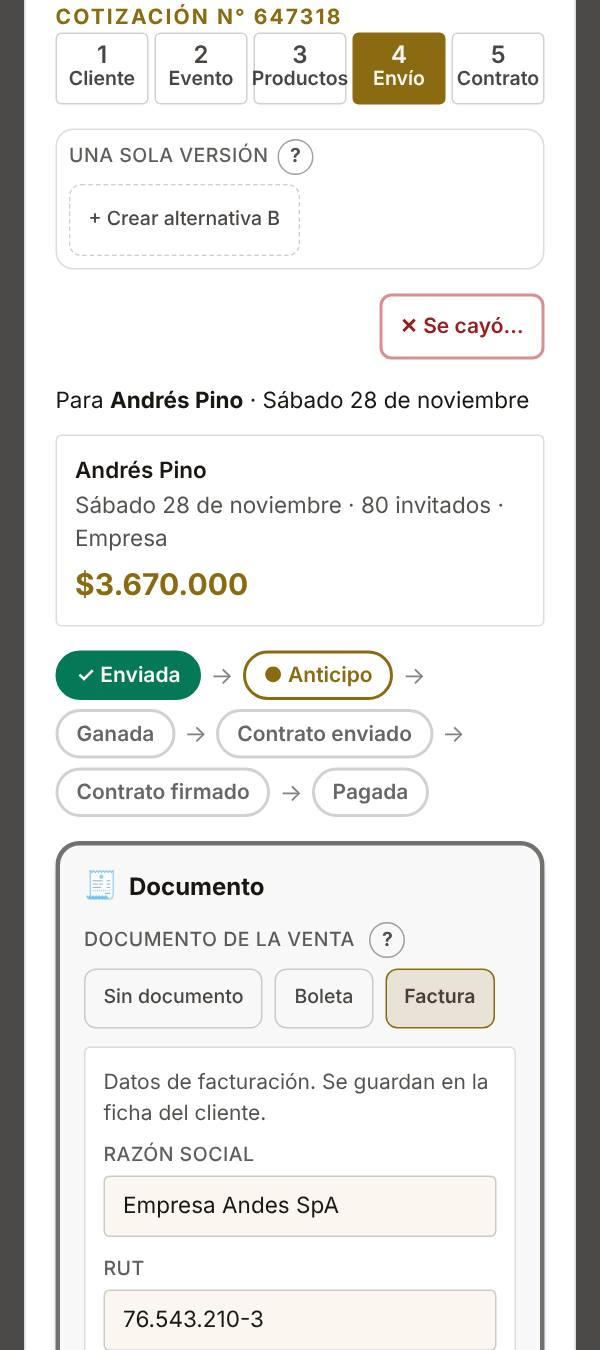
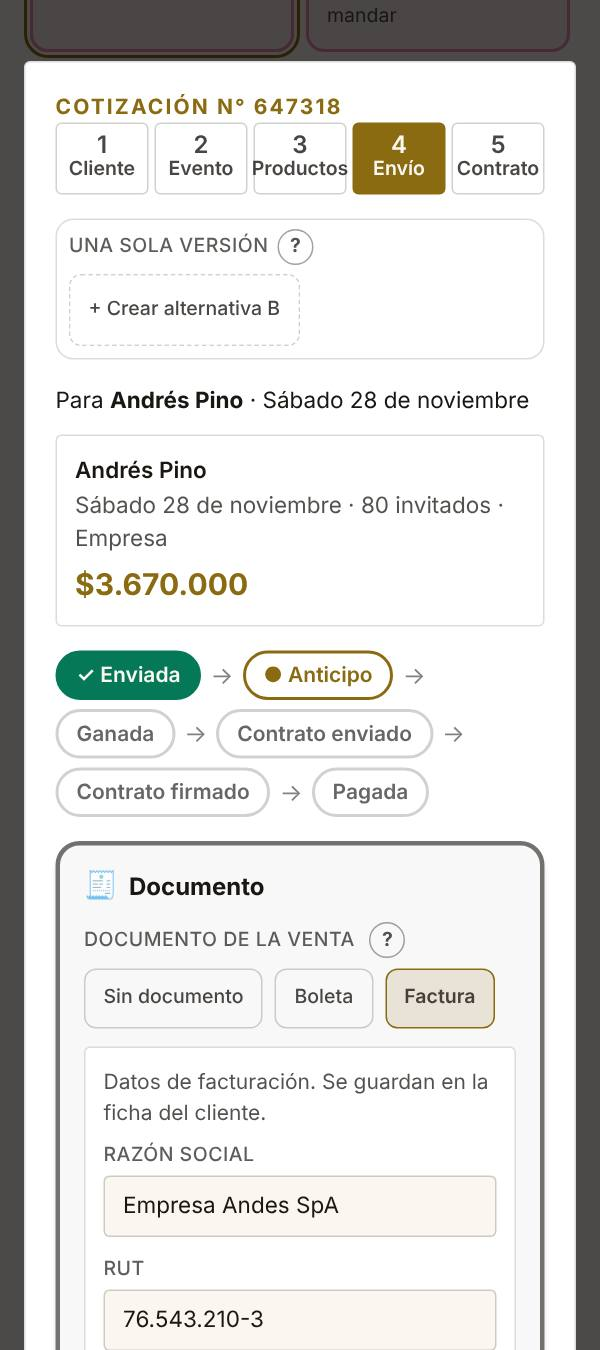
Se cayó: al lado de Ir al paso, y dentro de la tarjeta de la lista
Lo corrigió el cliente con las capturas: arriba a la derecha quedaba
escondido, y afuera de la fila dejaba superficie libre.

- En la ventana de cotizar va en el pie de cada paso, al lado del dorado y
  del mismo alto (antesDeSeguir de PieDePaso). En el celular comparte la fila
  con volver y el dorado baja a todo el ancho.
- En la lista va dentro de la tarjeta, antes de los valores; en el celular,
  al final de la línea del vendedor. La fila pasa a ser una caja con un botón
  que la cubre, porque un botón no va dentro de otro.
- Las pruebas abren la cotización por ese botón; fotos de la ayuda rehechas.

Claude-Session: https://claude.ai/code/session_01SbCpLXRLiAYNdagAaPDDb9

diff --git a/panel/src/components/CotizacionDialogo.tsx b/panel/src/components/CotizacionDialogo.tsx
@@ -1275,6 +1275,26 @@ export default function CotizacionDialogo({
     </>
   );
 
+  /**
+   * **✕ Se cayó…, en el pie de cada paso** (2026-11-22, lo pidió el cliente:
+   * *"el vendedor responsable de su venta debería tener en cada página del
+   * pop-up de cotizaciones el botón se cayó… da igual en qué fase está"*, y
+   * después, al verlo arriba a la derecha: *"prefiero que se cayó esté al
+   * lado abajo de donde sale ir al próximo paso. Como botón clave"*). Va al
+   * lado del dorado, del mismo alto, con borde rojo. Abre la ventanita que
+   * pide el motivo y confirma (`SeCayo`). Solo en una cotización en carrera:
+   * una ganada se cancela, con su propio botón (*Cancelar evento*). Lo ve
+   * quien puede tocarla: el vendedor la suya; pagos, la gerencia y el
+   * administrador, todas.
+   */
+  const botonSeCayo = p && puedeEditar && !cancelada && enCarrera({ estado, idReserva: p.idReserva }) ? (
+    <button type="button" disabled={guardando} onClick={() => setCayendo(true)}
+      className="boton min-h-[52px] !border-2 !border-rojo-fuerte/60 !px-4 !text-[15px] !font-bold text-rojo-texto
+                 hover:!border-rojo-fuerte hover:!text-rojo-texto lg:min-h-[44px]">
+      ✕ Se cayó…
+    </button>
+  ) : null;
+
   /** Lo mismo, del paso 5: corregir la ganada y cancelar el evento. */
   const secundariosContrato = (
     <>
@@ -1483,25 +1503,6 @@ export default function CotizacionDialogo({
                 onClick={() => void elegirAlternativa(p.id, true)}>Volver a ofrecer todas</button>
             </p>
           )}
-        </div>
-      )}
-
-      {/* **Se cayó…, en todos los pasos** (2026-11-22, lo pidió el cliente:
-          *"el vendedor responsable de su venta debería tener en cada página
-          del pop-up de cotizaciones el botón se cayó… da igual en qué fase
-          está"*). Va en la fila de los pasos, que está en los cinco. Abre la
-          ventanita que pide el motivo y confirma (`SeCayo`). **Una ganada se
-          cancela**: ahí el mismo botón abre *Cancelar el evento*, que libera
-          el cupo y calcula la devolución. Lo ve quien puede tocarla: el
-          vendedor la suya; pagos, la gerencia y el administrador, todas. */}
-      {p && puedeEditar && !cancelada && (ganada || enCarrera({ estado, idReserva: p.idReserva })) && (
-        <div className="mb-4 flex justify-end lg:mb-0 lg:shrink-0">
-          <button type="button" disabled={guardando}
-            onClick={() => (ganada ? setCancelando(true) : setCayendo(true))}
-            className="boton min-h-[44px] !border-2 !border-rojo-fuerte/50 !text-[14px] !font-semibold text-rojo-texto
-                       hover:!border-rojo-fuerte hover:!text-rojo-texto">
-            ✕ Se cayó…
-          </button>
         </div>
       )}
 
@@ -2914,6 +2915,7 @@ export default function CotizacionDialogo({
                 {!cancelada && !autoActivo && <BotonGuardar sucio={sucio} guardando={guardando} onClick={() => pedirGuardar()} />}
                 {secundarios}
               </> : null}
+          antesDeSeguir={botonSeCayo}
           onVolver={() => void irA(paso - 1)} onSeguir={() => void irA(paso + 1)} />
       )}
       {paso === 5 && (
@@ -2925,6 +2927,7 @@ export default function CotizacionDialogo({
             {!cancelada && !autoActivo && <BotonGuardar sucio={sucio} guardando={guardando} onClick={() => pedirGuardar()} />}
             {secundariosContrato}
           </div>
+          {botonSeCayo && <><span className="flex-1" />{botonSeCayo}</>}
         </div>
       )}
 
@@ -3133,10 +3136,16 @@ export default function CotizacionDialogo({
  *   pasar de Evento a Productos guarda (`irA()`), y eso se dice antes.
  * - **A la izquierda, volver**, delineado.
  */
-function PieDePaso({ paso, guardando, puede, porQueNo, aviso, medio, onVolver, onSeguir }: {
+function PieDePaso({ paso, guardando, puede, porQueNo, aviso, medio, antesDeSeguir, onVolver, onSeguir }: {
   paso: number; guardando: boolean; puede: boolean; porQueNo: string; aviso: string;
   /** Lo que va en el pie **solo en el computador**, entre *volver* y *seguir*. */
   medio?: React.ReactNode;
+  /**
+   * Un botón clave al lado del dorado, en el computador y en el celular:
+   * *✕ Se cayó…* (2026-11-22). En el celular comparte la fila con *volver*
+   * y el dorado baja a todo el ancho, para no dejar un hueco.
+   */
+  antesDeSeguir?: React.ReactNode;
   onVolver: () => void; onSeguir: () => void;
 }) {
   return (
@@ -3155,8 +3164,10 @@ function PieDePaso({ paso, guardando, puede, porQueNo, aviso, medio, onVolver, o
             {puede ? aviso : porQueNo}
           </span>
         )}
+        {antesDeSeguir}
         <button type="button" disabled={guardando || !puede} onClick={onSeguir}
-          className="boton boton-relleno min-h-[52px] px-5 text-[16px] disabled:opacity-50 lg:min-h-[44px]">
+          className={`boton boton-relleno min-h-[52px] px-5 text-[16px] disabled:opacity-50 lg:min-h-[44px] ${
+            antesDeSeguir ? 'max-lg:basis-full' : ''}`}>
           {guardando ? 'Guardando…' : <>Ir al paso {paso + 1}: {PASOS[paso]} →</>}
         </button>
       </div>

diff --git a/panel/src/components/CotizacionesVista.tsx b/panel/src/components/CotizacionesVista.tsx
@@ -322,18 +322,35 @@ export default function CotizacionesVista() {
    */
   /**
    * **Se cayó…, también en la lista** (2026-11-22, lo pidió el cliente:
-   * *"hasta en el enlistado… ahí cabe también un botón se cayó"*). Va al lado
-   * de la fila —no adentro: la fila entera ya es un botón que abre la
-   * cotización— y solo en las que siguen en carrera y esta cuenta puede
+   * *"hasta en el enlistado… ahí cabe también un botón se cayó"*, y al verlo
+   * afuera de la fila: *"deja los valores al borde derecho e integra el botón
+   * se cayó en el mismo panel antes de los valores… dentro del panel como un
+   * botón presente"*). Solo en las que siguen en carrera y esta cuenta puede
    * tocar. Abre la misma ventanita que en la cotización (`SeCayo`).
+   *
+   * **La fila ya no es un botón entero**, porque un botón no puede ir dentro
+   * de otro: es una caja con un botón invisible que la cubre (`abrir`, el que
+   * abre la cotización) y *Se cayó…* encima, con `z-10`. En el computador va
+   * en la línea del nombre, antes de los valores; en el celular, al final de
+   * la línea del vendedor, a la derecha, para no sumar un renglón.
    */
   const puedeCaerse = (p: Presupuesto) => !soloMira && enCarrera(p)
     && puedeTocarPresupuesto(datos.rol as Rol, datos.usuario, p.creadoPor);
-  const fila = (p: Presupuesto, conFecha = true, detalle?: ReactNode) => (
-    <li key={p.id} className="flex items-stretch gap-2">
-      <button type="button" onClick={() => setAbierta({ p })}
-        className="tecla flex min-w-0 flex-1 flex-wrap items-center gap-x-3 gap-y-1 rounded border
-                   border-hueso/15 bg-panel px-3 py-2.5 text-left min-h-[52px] hover:border-oro/60">
+  const fila = (p: Presupuesto, conFecha = true, detalle?: ReactNode) => {
+    const caerse = puedeCaerse(p);
+    const botonCaer = (donde: string) => (
+      <button type="button" onClick={() => setCayendo(p)} aria-label={`Se cayó la cotización de ${p.cliente || 'sin cliente'}`}
+        className={`boton relative z-10 shrink-0 !min-h-[40px] !border-2 !border-rojo-fuerte/50 !px-2.5 !text-[14px]
+                    !font-semibold text-rojo-texto hover:!border-rojo-fuerte hover:!text-rojo-texto ${donde}`}>
+        ✕ Se cayó…
+      </button>
+    );
+    return (
+      <li key={p.id} className="relative flex min-h-[52px] flex-wrap items-center gap-x-3 gap-y-1 rounded border
+                                border-hueso/15 bg-panel px-3 py-2.5 hover:border-oro/60
+                                [&:has(>.abrir:active)]:translate-y-px">
+        <button type="button" onClick={() => setAbierta({ p })} aria-label={`Abrir la cotización de ${p.cliente || 'sin cliente'}`}
+          className="abrir absolute inset-0 rounded focus-visible:outline focus-visible:outline-2 focus-visible:outline-oro" />
         <span className="text-[16px] font-semibold">{p.cliente || 'Sin cliente'}</span>
         <PastillaEstado estado={estadoDe(p)} />
         {conFecha && (
@@ -345,6 +362,7 @@ export default function CotizacionesVista() {
           </span>
         )}
         <span className="flex-1" />
+        {caerse && botonCaer('hidden lg:inline-flex')}
         <span className="text-[14px] text-hueso/70">
           {gente(p) > 0 && <>{gente(p)} pers. · </>}
           <strong className="text-hueso">{enPesos(total(p))}</strong>
@@ -355,19 +373,15 @@ export default function CotizacionesVista() {
           </span>
         )}
         <span className="text-[13px] text-hueso/55">N° {folioDe({ id: grupoDe(p) })}</span>
-        {detalle && (
-          <span className="flex basis-full flex-wrap gap-x-3 gap-y-0.5 text-[13px] text-hueso/70">{detalle}</span>
+        {(detalle || caerse) && (
+          <span className="flex basis-full items-center gap-x-3 gap-y-0.5 text-[13px] text-hueso/70">
+            <span className="flex min-w-0 flex-1 flex-wrap gap-x-3 gap-y-0.5">{detalle}</span>
+            {caerse && botonCaer('lg:hidden')}
+          </span>
         )}
-      </button>
-      {puedeCaerse(p) && (
-        <button type="button" onClick={() => setCayendo(p)} aria-label={`Se cayó la cotización de ${p.cliente || 'sin cliente'}`}
-          className="boton shrink-0 self-center !min-h-[44px] !border-2 !border-rojo-fuerte/50 !px-2.5 !text-[14px]
-                     !font-semibold text-rojo-texto hover:!border-rojo-fuerte hover:!text-rojo-texto">
-          ✕ Se cayó…
-        </button>
-      )}
-    </li>
-  );
+      </li>
+    );
+  };
 
   // ---- El calendario: semanas desde la en curso, con los días que importan.
   /** Lo que esta cuenta ve en la tarjeta de un día: lo mandado, una ganada, o lo suyo sin mandar. */

diff --git a/panel/CLAUDE.md b/panel/CLAUDE.md
@@ -221,12 +221,28 @@ fácil… para que desaparezca de la lista"*. Y después: *"esta función tiene 
 estar para el encargado de pagos y la gerencia también. Siempre comprobando
 que es correcto"*.
 
-- **Dónde está**:
-  - en la ventana de cotizar, en la fila de los pasos, así que se ve en los
-    cinco;
-  - al lado de cada fila de la lista, fuera de la fila, que ya es un botón;
+- **Dónde está** (la primera versión lo ponía arriba a la derecha en la
+  ventana y afuera de la fila en la lista; el cliente lo corrigió con las
+  capturas: *"prefiero que se cayó esté al lado abajo de donde sale ir al
+  próximo paso. Como botón clave… dentro del panel como un botón
+  presente"*):
+  - **en la ventana de cotizar, en el pie de cada paso, al lado del dorado**
+    (*Ir al paso…*), del mismo alto y con borde rojo (`botonSeCayo` y
+    `antesDeSeguir` de `PieDePaso`). En el paso 5, que no tiene dorado, al
+    final del pie. En el celular comparte la fila con *← volver* y el dorado
+    baja a todo el ancho, para no dejar un hueco;
+  - **dentro de cada tarjeta de la lista**, antes de los valores, que siguen
+    en el borde derecho. En el celular, al final de la línea del vendedor, a
+    la derecha. Se dibuja dos veces en el HTML (una para cada pantalla): en
+    una prueba se pide el que se ve;
   - en *Esperando respuesta*, donde reemplaza a *Se perdió*, que tenía sus
     propios botones de motivo: era el mismo dato con otra forma.
+- **La fila de la lista ya no es un botón entero**: un botón no puede ir
+  dentro de otro. Es una caja con un botón invisible que la cubre (`abrir`,
+  *Abrir la cotización de …*) y *Se cayó…* encima (`z-10`). Apretar el nombre
+  sigue abriendo la cotización. **En una prueba se aprieta ese botón por su
+  nombre**, no el texto del cliente: el texto queda debajo y Playwright dice
+  que otro elemento recibe el clic.
 - **La ventanita `SeCayo`**: los motivos de siempre (`MOTIVOS_PERDIDA`) o uno
   escrito, y **no deja seguir sin motivo**. Antes del botón dice qué pasa:
   *Pasa a Perdidas: sale de la lista y del calendario. Se puede volver a
@@ -253,7 +269,7 @@ que es correcto"*.
   autoguardado, y al terminar la ventana se cierra y la lista se recarga.
 - **Medidas**: la ventanita, 364px a 1280×650 (escena `v-se-cayo`; son 50).
   Los pasos de cotizar no crecen: el paso 4 bajó de 625 a 612px al salir su
-  botón. En el celular el botón va en su línea, bajo los pasos.
+  botón. Una tarjeta de la lista con el botón mide 86px en el computador.
 - **Ayuda**: el `?` de Cotizaciones, *En qué va* y *Esperando respuesta*
   dicen *✕ Se cayó…*. Fotos rehechas: `ven-cotizar`, `ven-envio`,
   `pag-cobros` y `ger-cobros`.
